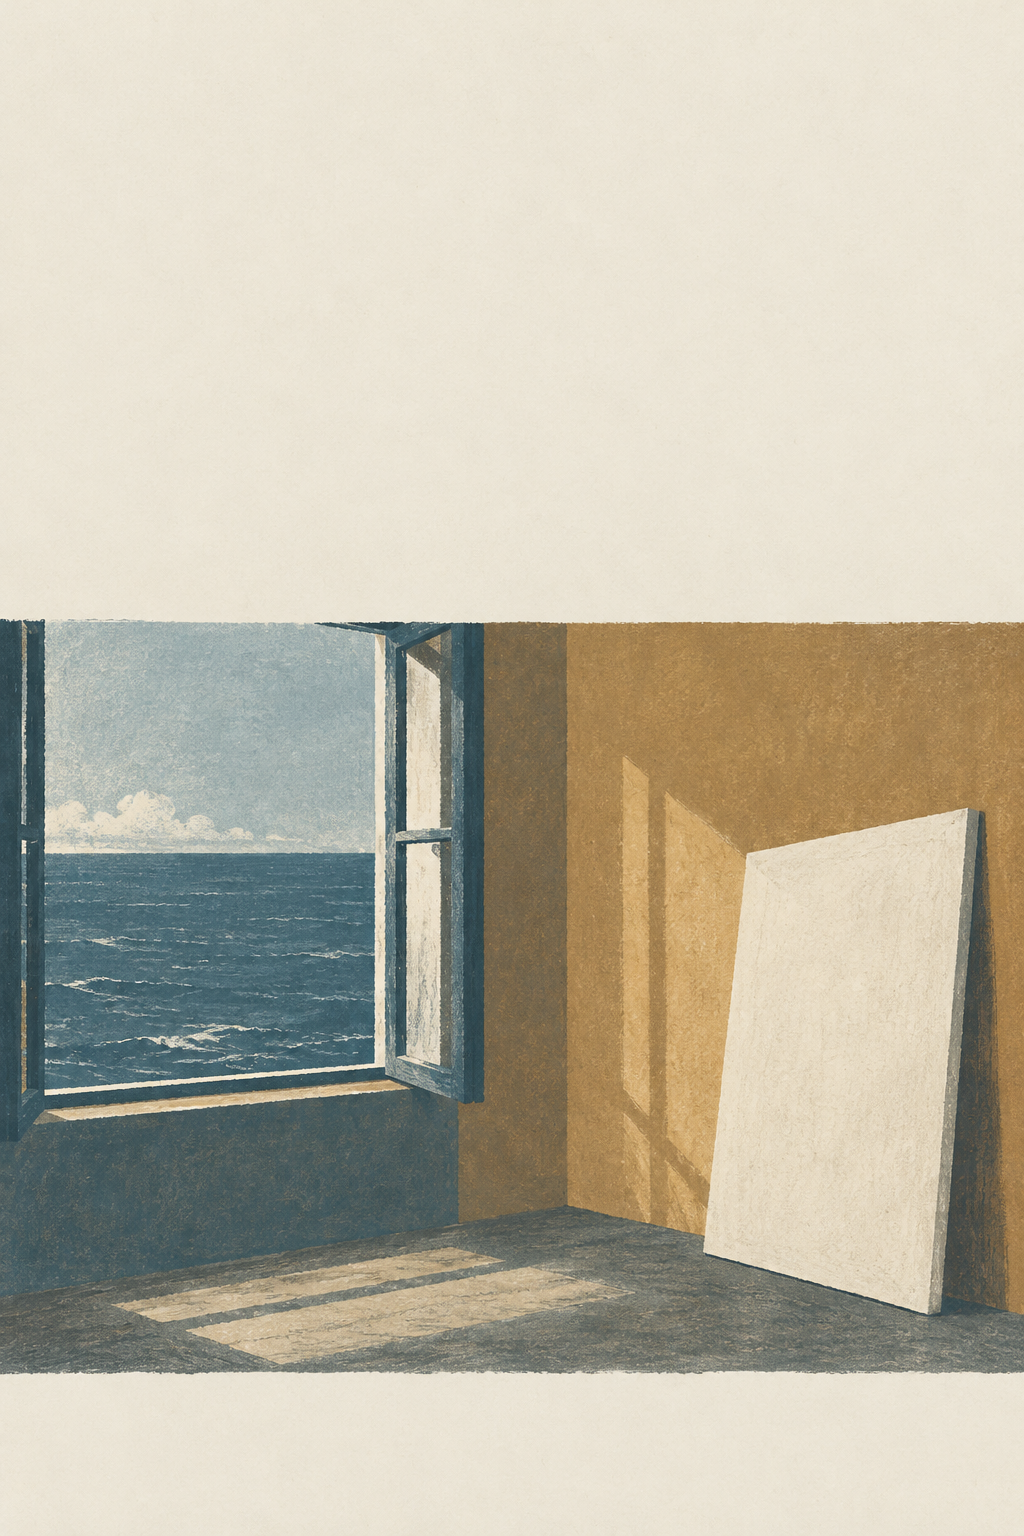
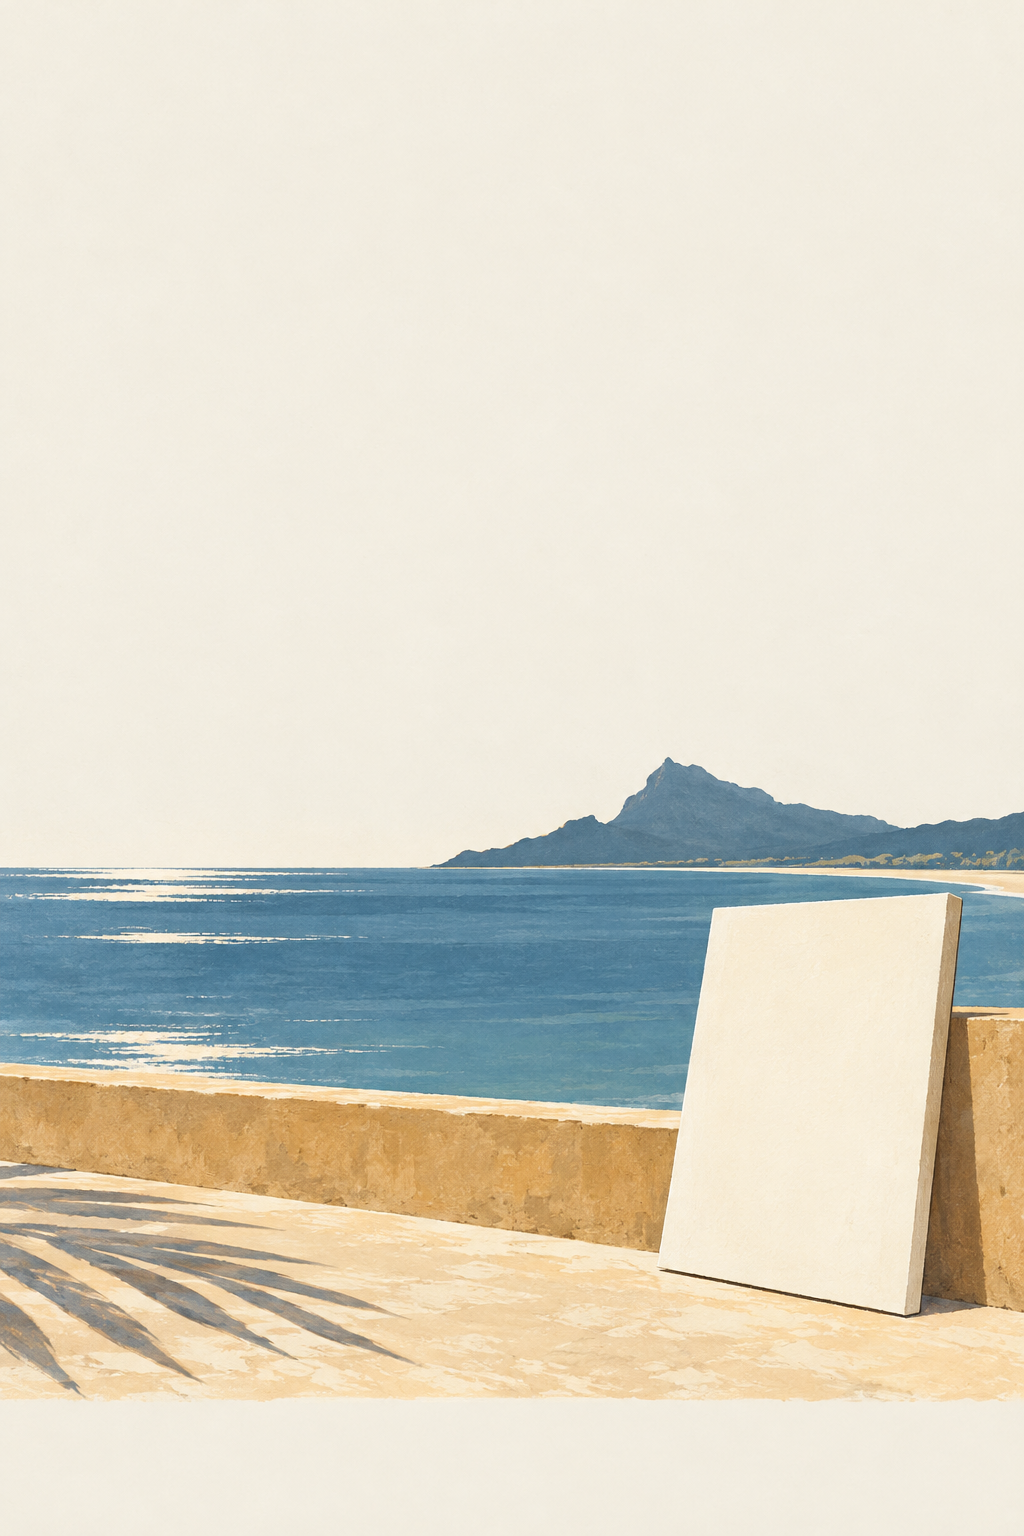
Reimagine The Moon and Sixpence in the light of Tahiti

diff --git a/docs/revisions/moon-sixpence-2026-10-16.md b/docs/revisions/moon-sixpence-2026-10-16.md
@@ -1,0 +1,27 @@
+# 《月亮与六便士》· 读者反馈后的重新设计
+
+2026-10-16，使用 Book Covers Skill 1.4.0 与 OpenAI 内置生图工具。工具未提供具体模型版本。
+
+读者希望表达塔希提阶段的通透与不再执着于留下什么。新稿保留一张真正空白的画布，将封闭的室内改为面向海湾的开敞露台，用海色、光和稀疏树影围绕这片空白。它是读者提出的意象化解读，并非小说原景复现。
+
+中文比较了原有两行与新的单行排版，选用等大、等重的六字单行题目。英文保留正体与斜体的短语层级。新封面省去边角的系列标签，书目编号仍用于画廊导航。
+
+- [当前无字插画](../../artwork/moon-sixpence.png)
+- [本次实际生成提示词](../../prompts/moon-sixpence.txt)
+- [原稿](../../process/vol-02/moon-sixpence-v1.png)、[原提示词](../../process/vol-02/moon-sixpence-v1.prompt.txt)、[原书目记录](../../process/vol-02/moon-sixpence-v1.json)
+
+新图是重新生成的构图，没有对原稿做程序绘制或裁切。中英文标题、作者仍由真实字体排版。初次生成请求因会话中断未取得返回图片；核对任务状态和生成目录后重试，选用本次成功返回的图片。未将中断请求计为完成的作品。
+
+首次稳定性试验的图像、观察、用时和哈希仍予保留；其复跑配置已指向归档输入。新稿不计入那轮“十次生成、一轮编辑”的统计。
+
+验证：20 项测试通过，正式构建及本地链接检查通过。中英文页面已进行视觉检查，画布保持空白、题目和作者完整显示。原试验配置复跑的四个交付文件与原记录的 SHA-256 全部一致。
+
+文学背景核对：[《The Moon and Sixpence》原文](https://www.gutenberg.org/files/222/222-h/222-h.htm)，结尾对壁画、房屋焚毁与心境的叙述。空白画布是本次设计象征，不代表人物从未作画，也不代表所有作品都没有流传。
+
+## English
+
+The reader asked for clarity and release in Tahiti, expressed through an intentionally empty canvas. The new generation opens the earlier enclosed room onto a sunlit bay. Sea, light and a sparse palm shadow surround the blank surface. This is a reader-led visual interpretation, not a literal reconstruction of the novel.
+
+The Chinese title is now a single line of equally sized characters. The English title keeps its roman/italic phrase hierarchy. Both use real font outlines; the marginal collection imprint is omitted. The original trial's images, observations and measurements remain historical, and its replay spec uses the archived inputs linked above.
+
+Validation: all 20 tests, the production build and local-link checks passed. Both language pages were visually checked. Replaying the archived trial reproduced all four original delivery-file SHA-256 hashes.

diff --git a/README.en.md b/README.en.md
@@ -101,7 +101,7 @@ On 16 October 2026, ten works were produced with unchanged Skill 1.4.0. The agen
 | Same-environment repeat       | With fixed artwork, fonts and settings, all 40 delivery files had identical SHA-256 hashes |
 | Skill and gallery consistency | All 20 typeset PNGs and 10 prompt files matched                                            |
 
-**Typography and file delivery were consistent; the images still need individual judgment.** Some covers have excess texture, similar compositions or imprecise whitespace. The notes retain reservations about _My Memories of Old Beijing_ and _One Hundred Years of Solitude_. The gallery keeps the versions selected in this trial so they can be compared with the recorded results.
+**Typography and file delivery were consistent; the images still need individual judgment.** Some covers have excess texture, similar compositions or imprecise whitespace. The notes retain reservations about _My Memories of Old Beijing_ and _One Hundred Years of Solitude_. The gallery's _The Moon and Sixpence_ has since been [redesigned following reader feedback](docs/revisions/moon-sixpence-2026-10-16.md); the other covers retain their selected versions. The thumbnails and measurements above remain a record of the original trial.
 
 Repeating typography on saved artwork does not mean a fresh image generation will reproduce it. Nor do ten examples establish a success rate for other books, image models or environments. The [full observations](docs/stability/vol-02/README.en.md) include actual prompts, revisions, checksums and replay specs.
 

diff --git a/ASSETS.md b/ASSETS.md
@@ -4,6 +4,8 @@ All twenty illustrations in `artwork/` were generated with OpenAI's built-in ima
 
 `catalog.json` records each selected image's SHA-256, creation date, prompt path and origin. Four founding studies were selected from Zhiyu Cai's personal website; six were new studies for Volume I of Book Covers. Two first drafts are retained in `process/`, alongside their revision prompt in `prompts/margin-revision.txt`. Volume II adds ten studies made on 2026-10-16 with unchanged Skill 1.4.0. Its Fortress Besieged first draft is retained in `process/vol-02/`, with its exact refinement prompt and a separately labeled standalone recipe in `prompts/`. Detailed observations, provenance and checks are in [the stability record](docs/stability/vol-02/README.en.md). Re-running a prompt does not guarantee identical pixels.
 
+On 2026-10-16, _The Moon and Sixpence_ received a new generation following the reader's interpretation of clarity and absence in Tahiti. The selected image and exact prompt replace its current gallery assets; its original illustration, prompt and catalog entry are retained as `process/vol-02/moon-sixpence-v1.*`. This later design is separate from the initial stability trial. See [the revision record](docs/revisions/moon-sixpence-2026-10-16.md).
+
 ## Licenses
 
 | Material                                                                                                                                         | License                                                                                       |

diff --git a/README.md b/README.md
@@ -101,7 +101,7 @@ npx skills add ZJUZhiyuCai/book-covers --skill book-covers
 | 同环境重复导出     | 固定原图、字体和配置，40 个交付文件的 SHA-256 全部一致 |
 | Skill 与画廊一致性 | 20 张带字 PNG、10 份提示词内容一致                     |
 
-**目前较可靠的是文字排版与文件交付，画面仍需逐张判断。** 部分作品存在纹理偏密、构图相近或留白位置不够准确的问题；《城南旧事》和《百年孤独》在记录中保留了这些意见。当前画廊保留这轮选定的版本，便于对照实测结果。
+**目前较可靠的是文字排版与文件交付，画面仍需逐张判断。** 部分作品存在纹理偏密、构图相近或留白位置不够准确的问题；《城南旧事》和《百年孤独》在记录中保留了这些意见。画廊中的《月亮与六便士》已按读者反馈[重新设计](docs/revisions/moon-sixpence-2026-10-16.md)，其余作品保留本轮选定版本；上面的缩略图与实测记录仍对应首次试验。
 
 相同原图上的重复排版，不等于再次生图会得到相同画面。这十个案例也不能代表所有书籍、图像模型或运行环境的成功率。实际提示词、返工过程、校验值和复跑配置均见[完整观察记录](docs/stability/vol-02/README.md)。
 

diff --git a/docs/stability/vol-02/README.en.md b/docs/stability/vol-02/README.en.md
@@ -4,6 +4,8 @@
 
 16 October 2026. Ten new works were made with **Book Covers Skill 1.4.0**, keeping its instructions and renderer unchanged. Each work has text-free PNG artwork, separate Chinese and English typeset PNGs, and a standalone prompt TXT.
 
+Later update: _The Moon and Sixpence_ has been [redesigned following reader feedback](../../revisions/moon-sixpence-2026-10-16.md). Images, observations and hashes here still describe the original trial. Its replay spec now points to the archived original artwork and prompt.
+
 **Typography and file delivery were consistent. Restraint in the generated illustrations still required editorial judgment.** This is an agent-directed case series on one host, not a hands-off benchmark or a general success-rate estimate.
 
 ![The English covers reviewed at 180 px each](thumbnails-en.jpg)

diff --git a/docs/stability/vol-02/README.md b/docs/stability/vol-02/README.md
@@ -4,6 +4,8 @@
 
 2026-10-16。使用 **Book Covers Skill 1.4.0**，新增十部作品。每部交付无字 PNG、中英文各一张字体排版 PNG，以及完整提示词 TXT。这里记录实际制作过程，包含失败与保留意见。
 
+后续更新：《月亮与六便士》已按读者反馈[重新设计](../../revisions/moon-sixpence-2026-10-16.md)。本页图像、观察和校验值保留首次试验状态；该书的复跑配置已指向归档原图与原始提示词。
+
 **本轮结论：文字与文件交付稳定；插画的简约程度仍需审阅。** 这些是同一 Agent 在同一环境中指导完成的十例，不是无人干预的成功率测试，也不能代表所有题材或宿主。
 
 ![十部作品的中文封面，按每张 180 像素宽检查](thumbnails-zh.jpg)
